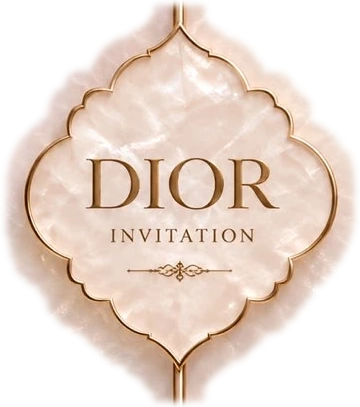
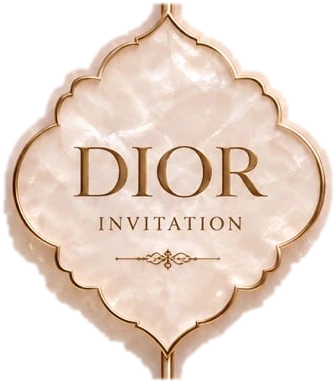
Dior Pink Flowers: no pale halo turning with the medallion
The spinning layer now carries only a 1-2 px soft edge (no band of surrounding
pearl turning with it), and the patch behind it covers the whole gold line, so
there is neither a halo nor a ghost outline; at rest it still matches the
artwork exactly and the seam line stays straight.

Claude-Session: https://claude.ai/code/session_015zS94yBeWhGXKckDvFWUsm

diff --git a/lib/themes.ts b/lib/themes.ts
@@ -1,6 +1,6 @@
 /** Client-safe helpers for theme assets (thumbnails etc.), keyed by renderer. */
 /** Browsers cache theme images for a year: bump a renderer's revision whenever its images change. */
-const REV: Record<string, string> = { "pearl-lotus@1": "7" };
+const REV: Record<string, string> = { "pearl-lotus@1": "8" };
 
 export function themeThumb(renderer: string, variant: string): string {
   const [name, ver] = renderer.split("@");

diff --git a/components/invitation/pearl-lotus/PearlLotusInvitation.tsx b/components/invitation/pearl-lotus/PearlLotusInvitation.tsx
@@ -31,7 +31,7 @@ const M = manifestJson as unknown as {
 };
 const ASSET_ROOT = "/assets/themes/pearl-lotus/v1";
 /** Theme images are cached by browsers for a year; bump this whenever an image file changes. */
-const REV = "7";
+const REV = "8";
 const VARIANTS = ["blush"]; // prepared colour variants (folders under ASSET_ROOT)
 const pct = (n: number) => `${(n * 100).toFixed(4)}%`;
 

diff --git a/scripts/build_lotus_assets.py b/scripts/build_lotus_assets.py
@@ -76,14 +76,14 @@ def lift_medallion(img: np.ndarray, medal: np.ndarray, pearl: np.ndarray) -> np.
     """Cover without the medallion (seen only around it while it spins): the colours continue smoothly
     from the surrounding pearl (inpainting) and real pearl texture detail from the same empty area of
     page 1 is laid over them; everything outside the medallion stays original. The seam line continues."""
-    hole = cv2.dilate(medal, np.ones((9, 9), np.uint8))
+    hole = cv2.dilate(medal, np.ones((5, 5), np.uint8))  # medallion incl. the whole gold line (+anti-aliasing)
     x0, y0, x1, y1 = BOX
     smooth = cv2.inpaint(img, hole * 255, 15, cv2.INPAINT_TELEA).astype(np.float32)
     tex = pearl.astype(np.float32)
     detail = tex - cv2.GaussianBlur(tex, (0, 0), 9)
     fill = np.clip(smooth + detail * 1.1, 0, 255)
-    # feathered (no hard outline anywhere); the medallion layer's soft edge covers this whole zone at rest
-    soft = np.maximum(cv2.GaussianBlur(hole.astype(np.float32), (0, 0), 3), hole.astype(np.float32))[..., None]
+    # soft 1-2 px blend; the fill continues the surrounding colours, so its edge does not read as a line
+    soft = np.maximum(cv2.GaussianBlur(hole.astype(np.float32), (0, 0), 1.2), hole.astype(np.float32))[..., None]
     base = (img.astype(np.float32) * (1 - soft) + fill * soft).astype(np.uint8)
     # seam line behind the medallion: rebuilt from the exact line pixels just above and just below it
     # (blended between the two), only where the fill replaced the original, so it continues perfectly
@@ -145,10 +145,9 @@ def main() -> None:
     base = lift_medallion(clean, medal, page1)
 
     ys, xs = np.where(medal)
-    mx0, my0, mx1, my1 = xs.min() - 20, ys.min() - 20, xs.max() + 21, ys.max() + 21
-    # opaque over the gold line and the feathered fill underneath, then a soft fade of the surrounding
-    # pearl (identical to what is under it), so neither at rest nor while turning is there a hard edge
-    alpha = cv2.GaussianBlur(cv2.dilate(medal, np.ones((29, 29), np.uint8)).astype(np.float32), (0, 0), 3.5)
+    mx0, my0, mx1, my1 = xs.min() - 8, ys.min() - 8, xs.max() + 9, ys.max() + 9
+    # opaque over the fill underneath, with only a 1-2 px soft edge of surrounding pearl (no halo turns with it)
+    alpha = cv2.GaussianBlur(cv2.dilate(medal, np.ones((9, 9), np.uint8)).astype(np.float32), (0, 0), 1.2)
     alpha = (np.clip(alpha, 0, 1) * 255).astype(np.uint8)
     rgba = np.dstack([clean, alpha])[my0:my1, mx0:mx1]
 
